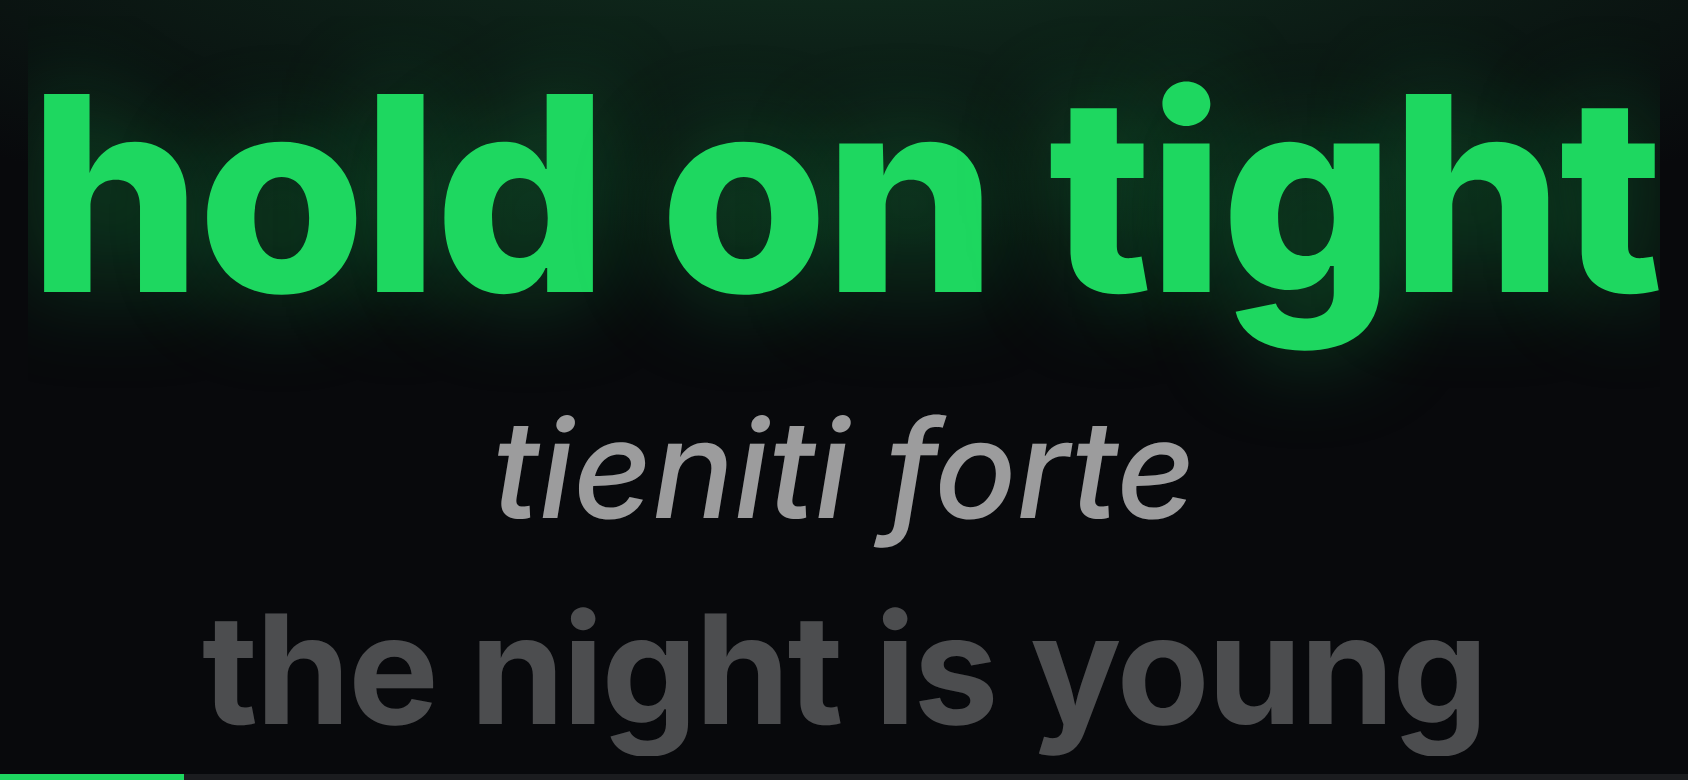
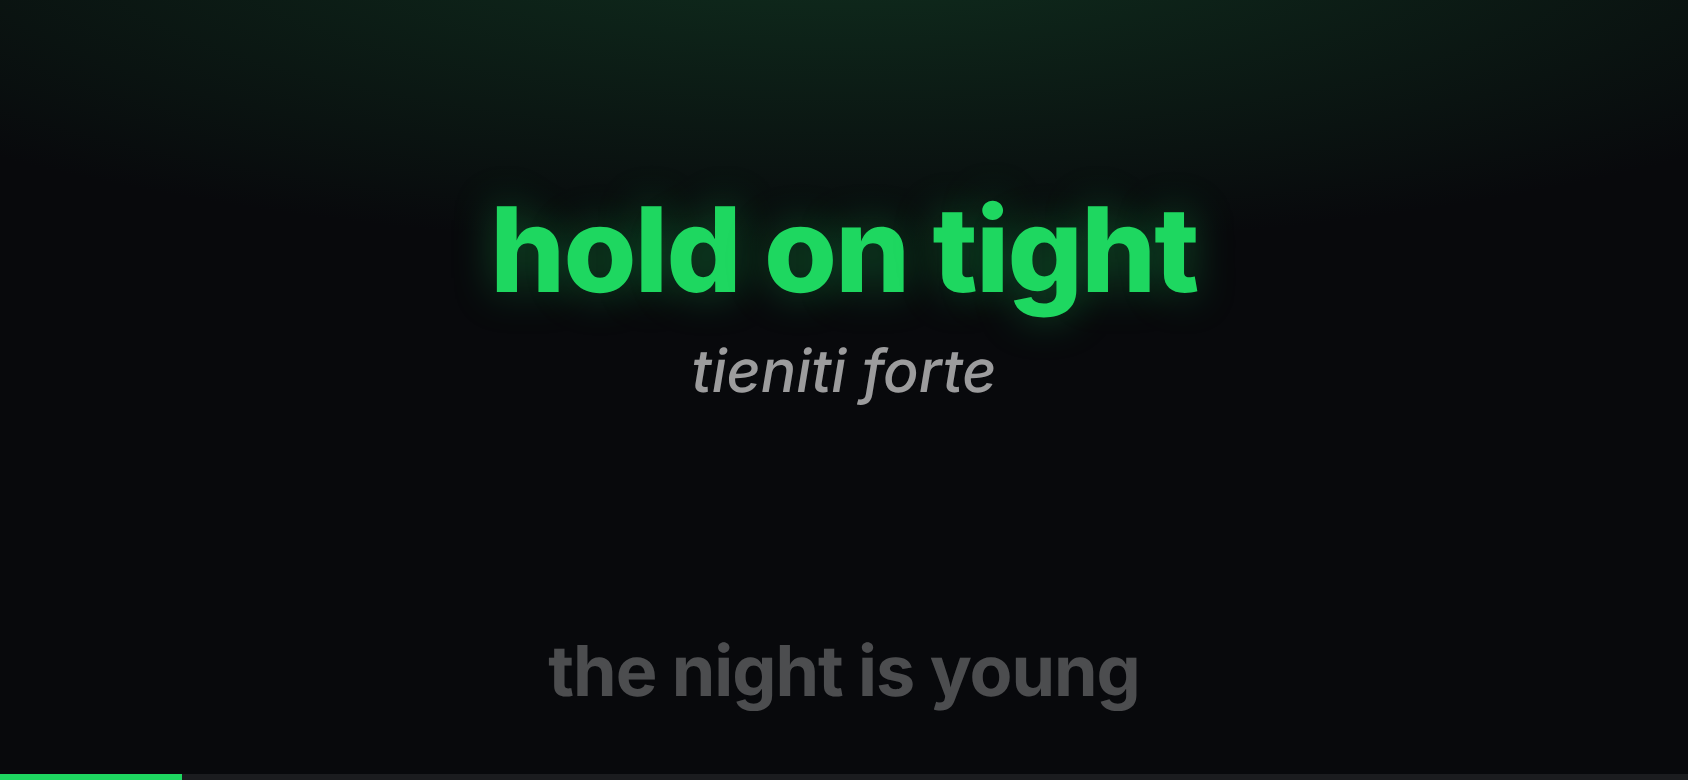
Screenshot del README con testo 4/10; righe vicine più piccole della riga corrente quando la grandezza è limitata
Claude-Session: https://claude.ai/code/session_0146bzom13vkGEAAJR81tkLz

Changed region(s): [[0.0, 0.0923, 0.9858, 0.4615], [0.1232, 0.7692, 0.8934, 0.9846], [0.2773, 0.4308, 0.7085, 0.7077]]

diff --git a/index.html b/index.html
@@ -1006,7 +1006,8 @@ function frame() {
 function fitBox(box) {
   const inner = box.firstElementChild, W = box.clientWidth, H = box.clientHeight;
   if (!inner || !W || !H || !inner.textContent.trim()) return;
-  let lo = 8, hi = Math.max(9, Math.floor(Math.min(H, sizeCap())));
+  // le righe precedente/successiva restano più piccole della riga corrente
+  let lo = 8, hi = Math.max(9, Math.floor(Math.min(H, sizeCap() * (box.id === "cur" ? 1 : 0.6))));
   while (hi - lo > 1) {
     const m = (lo + hi) >> 1; inner.style.fontSize = m + "px";
     if (inner.scrollWidth <= W + 0.5 && inner.offsetHeight <= H) lo = m; else hi = m;
@@ -1245,7 +1246,7 @@ document.querySelectorAll(".install").forEach(b => b.onclick = async () => {
   installEvt.prompt(); try { await installEvt.userChoice; } catch (e) {}
   installEvt = null; document.querySelectorAll(".install").forEach(x => x.classList.add("hidden"));
 });
-const APP_VERSION = "27/11/2026 14:10";
+const APP_VERSION = "27/11/2026 15:20";
 if ("serviceWorker" in navigator && window.isSecureContext) {
   const hadSW = !!navigator.serviceWorker.controller;
   navigator.serviceWorker.register("sw.js", { updateViaCache: "none" }).then(reg => {

diff --git a/sw.js b/sw.js
@@ -1,6 +1,6 @@
 // Service worker: rende l'app installabile e la apre anche con rete lenta.
 // Solo i file dell'app vengono messi in cache; Spotify, LRCLIB e Google passano sempre dalla rete.
-const CACHE = "karaoke-v14";
+const CACHE = "karaoke-v15";
 const FILES = ["./", "./index.html", "./manifest.webmanifest", "./icon-192.png", "./icon-512.png", "./icon-maskable-512.png"];
 
 self.addEventListener("install", e => {
